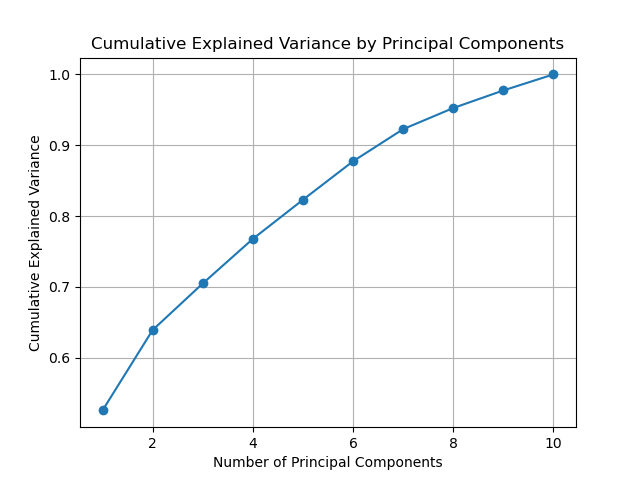
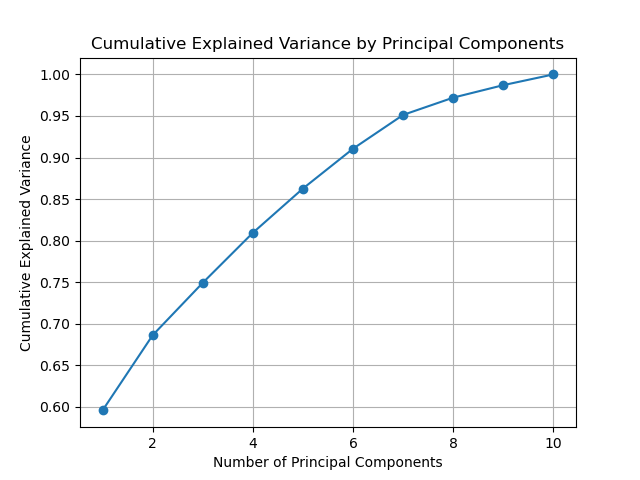
fix: add indentation fix pruned models

diff --git a/main.py b/main.py
@@ -17,9 +17,9 @@ warnings.filterwarnings("ignore")
 #--PARS
 max_iterations=100
 max_lag = 100 #maximum number of time steps for which autocorrelation is computed
-frequency_step = 1 # number of minutes between consecutive returns 
-M_target = 50000 #upper bound on number of bins
-merge=True
+frequency_step = 10 # number of minutes between consecutive returns 
+M_target = 1000 #upper bound on number of bins
+merge=False
 #--
 
 data_file = "data/data.xlsx"